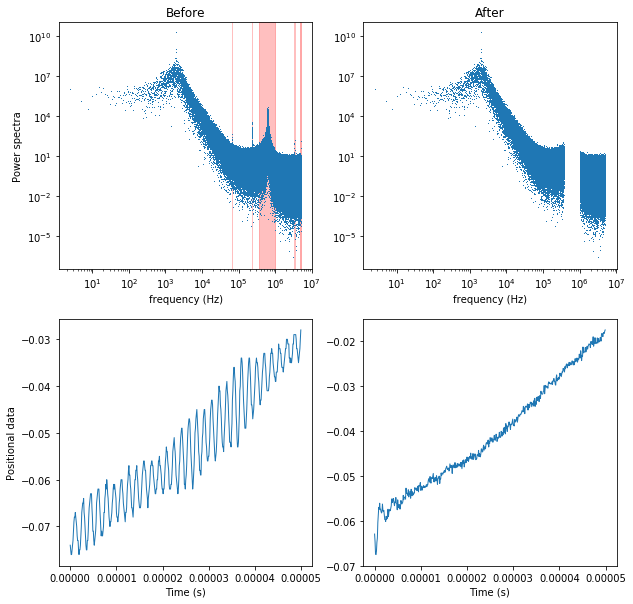
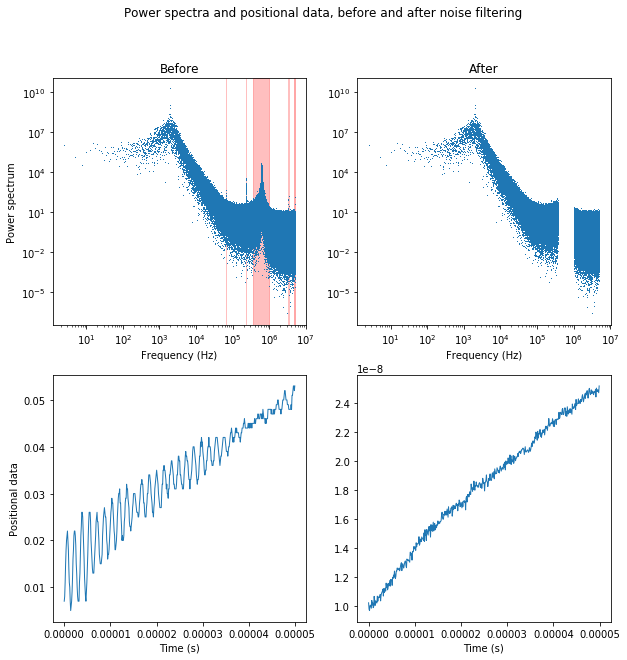
updated graph

Changed region(s): [[0.0, 0.0, 1.0, 1.0], [0.0, 0.0298, 0.1212, 0.447]]

diff --git a/Julia/filter_noise.py b/Julia/filter_noise.py
@@ -147,11 +147,11 @@ def filter_noise(run = default_run, plot = True):
         plt.subplot(223)
         plt.xlabel('Time (s)')
         plt.ylabel('Positional data')
-        plt.plot(t, data[200:window+200], lw = 1)
+        plt.plot(t, data[1000:window+1000], lw = 1)
         
         plt.subplot(224)
         plt.xlabel('Time (s)')
-        plt.plot(t, newdata[200:window+200], lw = 1)
+        plt.plot(t, newdata[1000:window+1000], lw = 1)
         
         plt.show()
         
